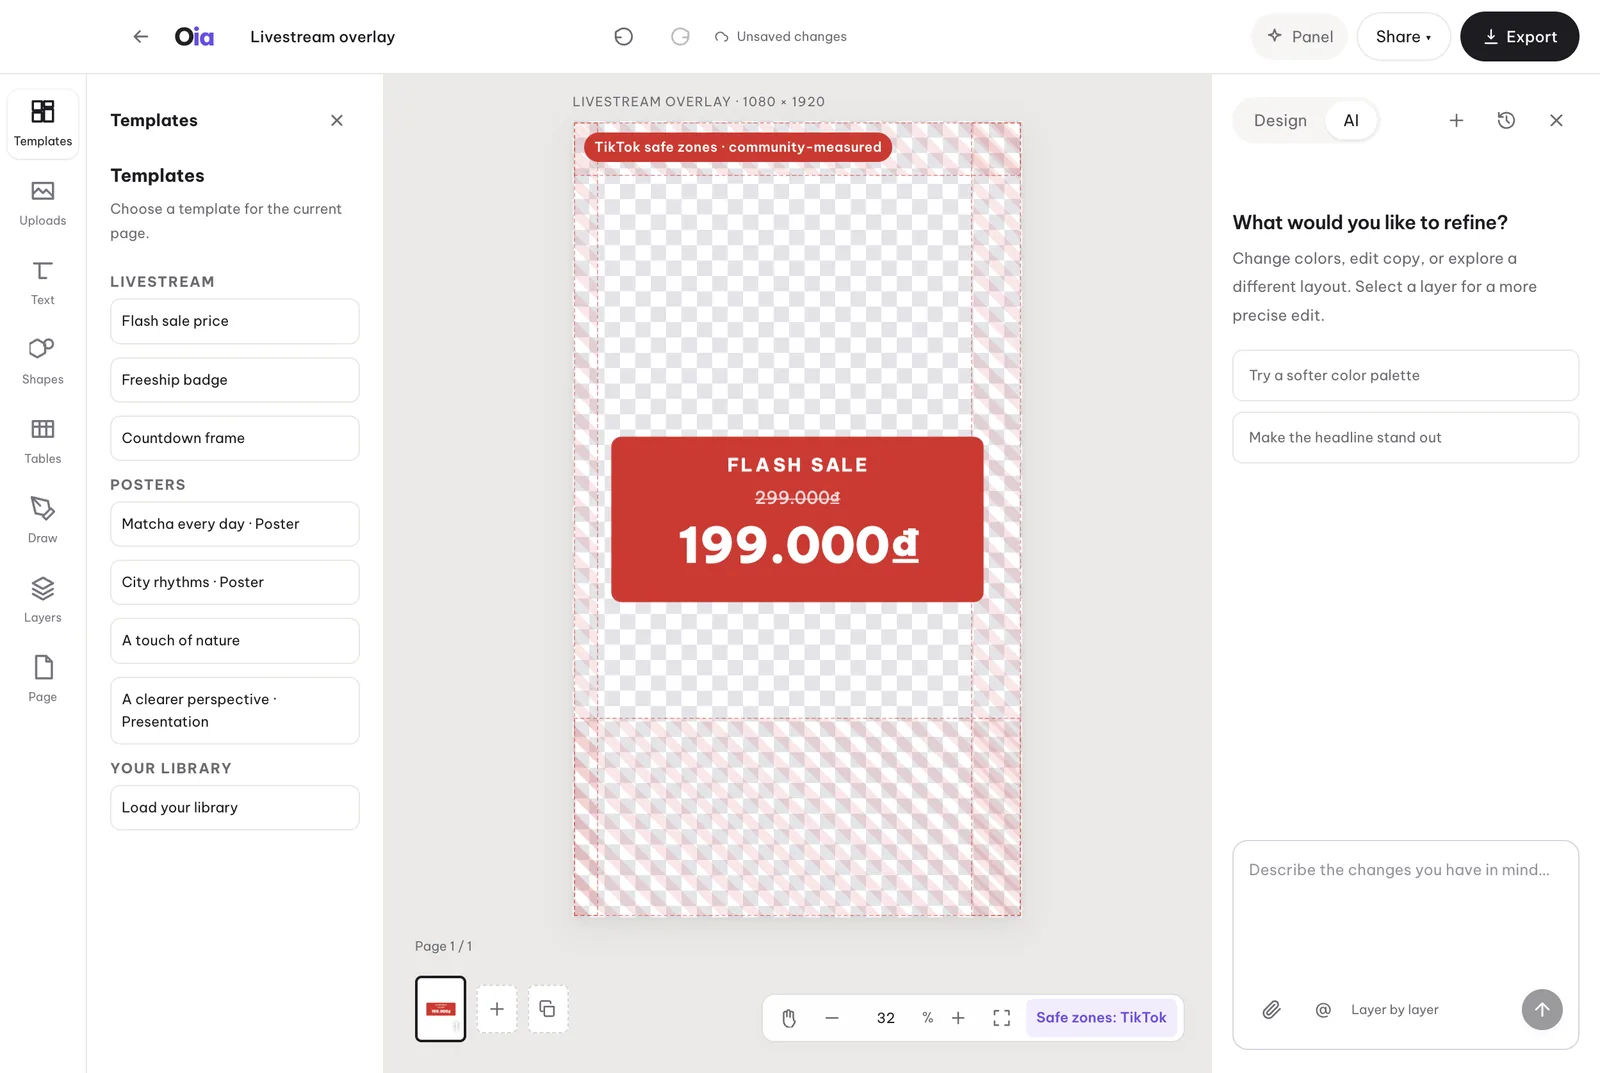
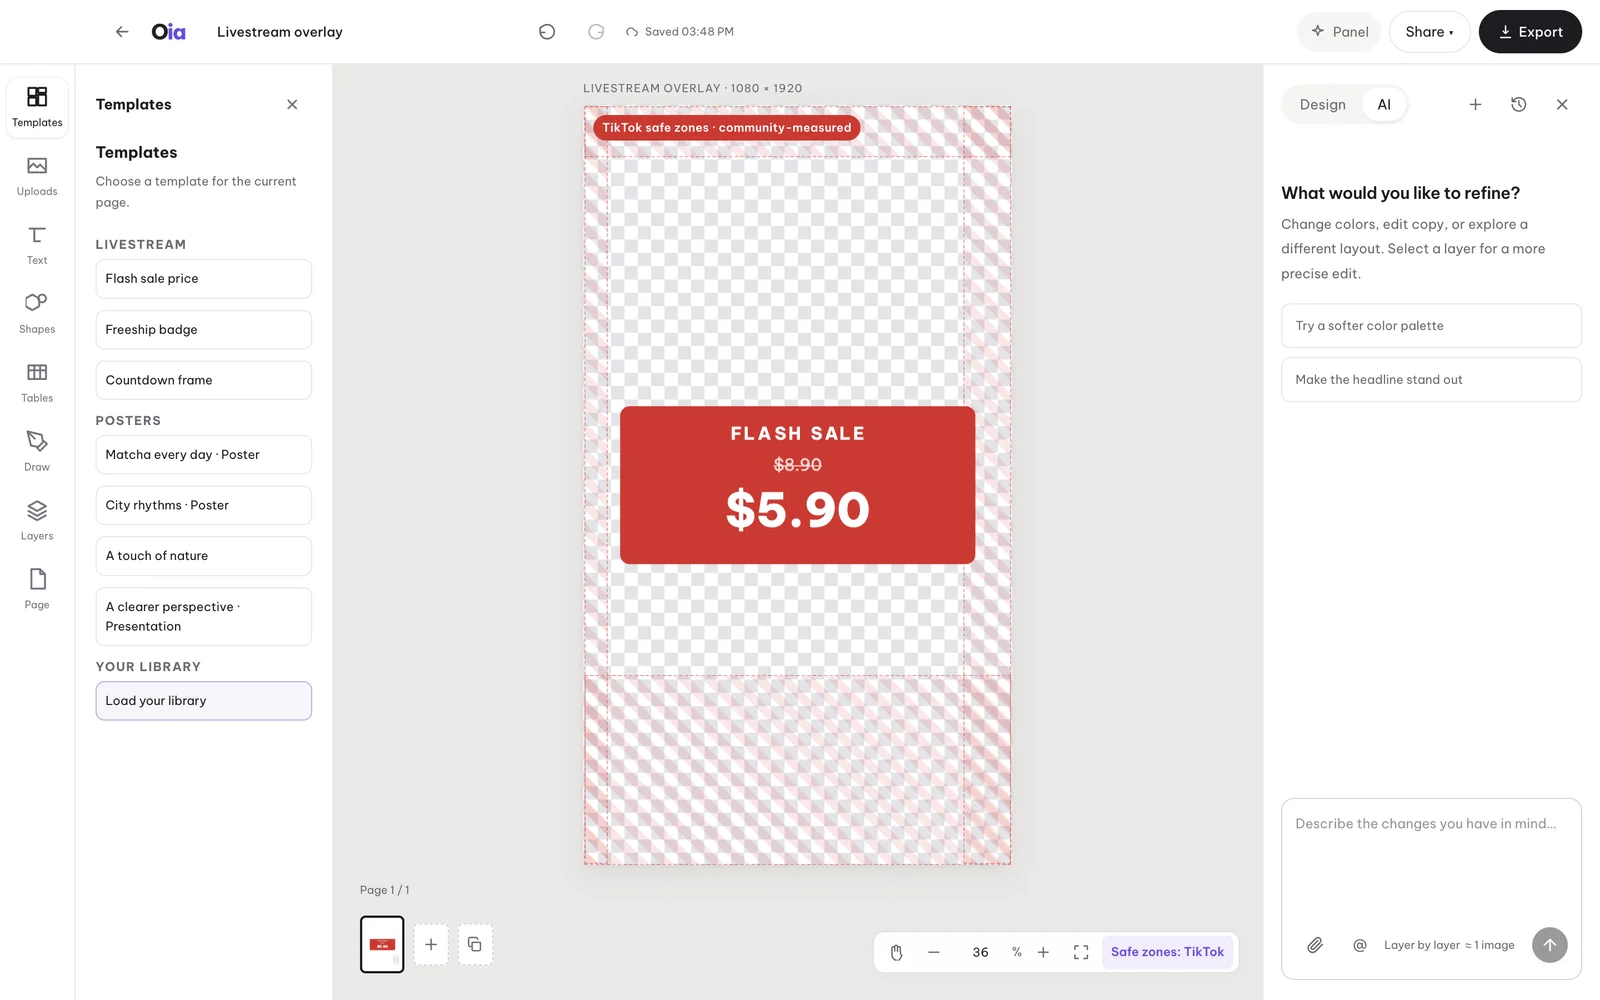
feat(landing): real Codex screenshots — no more mock placeholders
The three landing frames were mock-mode captures (placeholder
gradient artwork) — they made the product look like a toy. Replace
them with real states, generated against the owner's Codex runtime
and captured at 2x:

- editor.webp (workflow frame): a REAL A1 variant — "make it warmer
  and bolder" card, Replace-selected-layer enabled, canvas untouched
- deconstruct.webp (bring frame): a REAL B1 deconstruct — the
  exported milk-tea banner dropped back in, FLASH SALE / 20% / OFF /
  TODAY rebuilt as editable text layers, each badged You
- overlay.webp (templates frame): livestream overlay editor with the
  LIVESTREAM template library ($8.90 -> $5.90, all-English copy per
  owner) and TikTok safe zones

All sample content is English now (owner ask): hero prompt chip
"milk tea flash sale - 20% off", overlay prices in $, alt texts
updated to match. Frames re-shot at 1600x1000 (2x source).

README: docs/screenshots/editor.png refreshed to the same real
generation (warm banner, Layers panel, Design inspector); caption
no longer claims the bundled Matcha template.

qa-shots regenerated (1-hero, 3-gallery, 4-workflow-editor,
6-bring, 0-fullpage).

Quota burned (owner-approved): 3 images + 2 reads, incl. one
variant + one deconstruct consumed while repro-ing the two
in-process ref bugs (fixed in the companion PR).

diff --git a/site/index.html b/site/index.html
@@ -94,7 +94,7 @@
 
     <div class="chip chip-prompt">
       <div class="k">prompt</div>
-      <div class="t">banner trà sữa <em>giảm 20%</em></div>
+      <div class="t">milk tea flash sale — <em>20% off</em></div>
       <div class="pills"><span class="pp">Shopee 1:1 · 2K</span><span class="pp">brand: Lumea</span><span class="pp cost">≈ 1 image</span></div>
     </div>
     <div class="chip chip-log">
@@ -151,7 +151,7 @@
     </div>
     <p class="gallery-note">→ publish your own as editable community templates</p>
     <div class="editor-frame">
-      <img loading="lazy" src="assets/overlay.webp" alt="Livestream overlay editor: a flash-sale price card on a transparent 1080×1920 canvas, TikTok safe zones marked in red, livestream templates in the side panel" width="1600" height="1073">
+      <img loading="lazy" src="assets/overlay.webp" alt="Livestream overlay editor: flash-sale price card ($8.90 → $5.90) on a transparent 1080×1920 canvas, TikTok safe zones marked in red, livestream templates in the side panel" width="1600" height="1000">
       <span class="cap mono">livestream overlays · 1080 × 1920 transparent · safe zones for TikTok &amp; Shopee Live</span>
     </div>
   </div>
@@ -184,7 +184,7 @@
       </div>
     </div>
     <div class="editor-frame">
-      <img loading="lazy" src="assets/editor.webp" alt="Oia editor, AI tab: two preview variants wait in the panel — the canvas stays untouched until one is applied" width="1600" height="1073">
+      <img loading="lazy" src="assets/editor.webp" alt="Oia editor, AI tab: a real variant card — “make it warmer and bolder” — waits to replace the selected artwork layer; the canvas stays untouched until it is applied" width="1600" height="1000">
       <span class="cap mono">real editor · AI variants — apply only what you keep</span>
     </div>
   </div>
@@ -204,7 +204,7 @@
       <p class="bring-note">Or use any image as a background — free, untouched.</p>
     </div>
     <div class="editor-frame">
-      <img loading="lazy" src="assets/deconstruct.webp" alt="Oia editor: an old banner deconstructed — the Layers panel lists SALE 50, 299.000₫ and “Chỉ hôm nay” as editable text layers, each badged You" width="1600" height="1073">
+      <img loading="lazy" src="assets/deconstruct.webp" alt="Oia editor: an exported banner dropped back in — FLASH SALE, 20%, OFF and TODAY are editable text layers again, each badged You" width="1600" height="1000">
       <span class="cap mono">real editor · every “You” layer came from an old PNG</span>
     </div>
   </div>

diff --git a/README.md b/README.md
@@ -28,9 +28,9 @@ Everything runs on your machine. Bring your own supported provider. Keep your pr
 ## What editable actually means
 
 <p align="center">
-  <img src="docs/screenshots/editor.png" width="100%" alt="Real Oia editor with the Matcha Every Day headline selected as a native text object. Selection handles, text-formatting controls, page thumbnails, and export are visible.">
+  <img src="docs/screenshots/editor.png" width="100%" alt="Real Oia editor with a generated milk-tea flash-sale banner: the FLASH SALE headline is selected as a native text object, Layers panel open, Design inspector showing position and text properties.">
   <br>
-  <sub>Actual editor, bundled Matcha template. The selected headline is a text object—not lettering baked into the photograph.</sub>
+  <sub>Actual editor, real Codex generation. The selected headline is a text object—not lettering baked into the photograph.</sub>
 </p>
 
 **The image and the design are different things.** An Oia document contains separate canvas objects:
